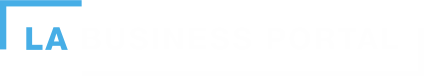
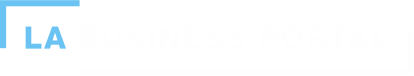
Tweaks related to removing the overlays

Changed region(s): [[0.0, 0.0, 0.2029, 0.6579], [0.058, 0.3421, 0.1739, 0.6316]]

diff --git a/docroot/profiles/labp/themes/la/lasbptheme/css/styles.css b/docroot/profiles/labp/themes/la/lasbptheme/css/styles.css
@@ -1755,7 +1755,7 @@ tr.selected td {
 /* line 8, ../sass/components/_header.scss */
 #header {
   color: white;
-  background: rgba(0, 0, 0, 0.2);
+  background: rgba(0, 0, 0, 0.25);
   padding: 0;
   height: 47px;
   position: fixed;
@@ -2506,7 +2506,7 @@ h3 {
 }
 
 @media all and (min-width: 960px) {
-  /* line 165, ../sass/components/hero/_hero.scss */
+  /* line 164, ../sass/components/hero/_hero.scss */
   .hero__bottom_align {
     border: 0px solid red;
     padding: 30px;
@@ -2515,7 +2515,7 @@ h3 {
   }
 }
 
-/* line 174, ../sass/components/hero/_hero.scss */
+/* line 173, ../sass/components/hero/_hero.scss */
 .hero__bottom_align--bn {
   border: 0px solid red;
   padding: 30px 30px 50px 0;
@@ -2523,12 +2523,12 @@ h3 {
   bottom: 0;
 }
 
-/* line 182, ../sass/components/hero/_hero.scss */
+/* line 181, ../sass/components/hero/_hero.scss */
 .hero__bottom_align_detail {
   border: 0px solid red;
 }
 @media all and (min-width: 960px) {
-  /* line 182, ../sass/components/hero/_hero.scss */
+  /* line 181, ../sass/components/hero/_hero.scss */
   .hero__bottom_align_detail {
     border: 0px solid red;
     padding: 30px 30px 20px 30px;
@@ -2537,23 +2537,23 @@ h3 {
   }
 }
 
-/* line 193, ../sass/components/hero/_hero.scss */
+/* line 192, ../sass/components/hero/_hero.scss */
 .hero__overlay_partial {
-  background-color: rgba(0, 0, 0, 0.3);
+  background-color: transparent;
   height: 250px;
   width: 100%;
   position: absolute;
   top: 0;
 }
 @media all and (min-width: 960px) {
-  /* line 193, ../sass/components/hero/_hero.scss */
+  /* line 192, ../sass/components/hero/_hero.scss */
   .hero__overlay_partial {
     height: 550px;
     width: 50%;
   }
 }
 
-/* line 205, ../sass/components/hero/_hero.scss */
+/* line 204, ../sass/components/hero/_hero.scss */
 .hero__overlay_partial_photo {
   width: 100%;
   height: 250px;
@@ -2564,13 +2564,13 @@ h3 {
   border: 0px solid red;
 }
 @media all and (min-width: 720px) {
-  /* line 205, ../sass/components/hero/_hero.scss */
+  /* line 204, ../sass/components/hero/_hero.scss */
   .hero__overlay_partial_photo {
     background-size: 100% auto;
   }
 }
 @media all and (min-width: 960px) {
-  /* line 205, ../sass/components/hero/_hero.scss */
+  /* line 204, ../sass/components/hero/_hero.scss */
   .hero__overlay_partial_photo {
     position: absolute;
     top: 0;
@@ -2580,7 +2580,7 @@ h3 {
   }
 }
 
-/* line 231, ../sass/components/hero/_hero.scss */
+/* line 230, ../sass/components/hero/_hero.scss */
 .hero__overlay_partial_color {
   border: 0px solid red;
   background-color: #6bc3f3;
@@ -2589,7 +2589,7 @@ h3 {
   position: relative;
 }
 @media all and (min-width: 960px) {
-  /* line 231, ../sass/components/hero/_hero.scss */
+  /* line 230, ../sass/components/hero/_hero.scss */
   .hero__overlay_partial_color {
     position: absolute;
     top: 0;
@@ -2598,7 +2598,7 @@ h3 {
   }
 }
 
-/* line 250, ../sass/components/hero/_hero.scss */
+/* line 249, ../sass/components/hero/_hero.scss */
 .hero__copy_block {
   position: absolute;
   bottom: 30px;
@@ -2606,7 +2606,7 @@ h3 {
   border: 0px solid red;
 }
 
-/* line 259, ../sass/components/hero/_hero.scss */
+/* line 258, ../sass/components/hero/_hero.scss */
 .hero__headline {
   font-family: Merriweather, serif;
   border: 0px solid red;
@@ -2617,14 +2617,14 @@ h3 {
   margin: 0 25px 20px 0;
 }
 @media all and (min-width: 960px) {
-  /* line 259, ../sass/components/hero/_hero.scss */
+  /* line 258, ../sass/components/hero/_hero.scss */
   .hero__headline {
     font-size: 4em;
     margin: 0 0 25px 0;
   }
 }
 
-/* line 284, ../sass/components/hero/_hero.scss */
+/* line 283, ../sass/components/hero/_hero.scss */
 .hero__business__name {
   font-weight: 700;
   color: white;
@@ -2633,13 +2633,13 @@ h3 {
   margin: 55px 0 3px 0;
 }
 @media all and (min-width: 960px) {
-  /* line 284, ../sass/components/hero/_hero.scss */
+  /* line 283, ../sass/components/hero/_hero.scss */
   .hero__business__name {
     margin: 85px 0 3px 0;
   }
 }
 
-/* line 295, ../sass/components/hero/_hero.scss */
+/* line 294, ../sass/components/hero/_hero.scss */
 .hero__business__description {
   color: white;
   width: 80%;
@@ -2647,7 +2647,7 @@ h3 {
   margin: 0;
 }
 
-/* line 305, ../sass/components/hero/_hero.scss */
+/* line 304, ../sass/components/hero/_hero.scss */
 .hero__headline--subsection_mobile {
   color: white;
   font-family: Merriweather, serif;
@@ -2656,13 +2656,13 @@ h3 {
   border: 0px solid red;
 }
 @media all and (min-width: 960px) {
-  /* line 305, ../sass/components/hero/_hero.scss */
+  /* line 304, ../sass/components/hero/_hero.scss */
   .hero__headline--subsection_mobile {
     display: none;
   }
 }
 
-/* line 321, ../sass/components/hero/_hero.scss */
+/* line 320, ../sass/components/hero/_hero.scss */
 .hero__headline--subsection_mobile_color {
   color: white;
   font-family: Merriweather, serif;
@@ -2673,18 +2673,18 @@ h3 {
   color: #0F2940;
 }
 @media all and (min-width: 960px) {
-  /* line 321, ../sass/components/hero/_hero.scss */
+  /* line 320, ../sass/components/hero/_hero.scss */
   .hero__headline--subsection_mobile_color {
     display: none;
   }
 }
 
-/* line 339, ../sass/components/hero/_hero.scss */
+/* line 338, ../sass/components/hero/_hero.scss */
 .hero__headline--subsection {
   display: none;
 }
 @media all and (min-width: 960px) {
-  /* line 339, ../sass/components/hero/_hero.scss */
+  /* line 338, ../sass/components/hero/_hero.scss */
   .hero__headline--subsection {
     font-size: 2.571em;
     margin: 0 0 25px 0;
@@ -2695,7 +2695,7 @@ h3 {
   }
 }
 
-/* line 353, ../sass/components/hero/_hero.scss */
+/* line 352, ../sass/components/hero/_hero.scss */
 .hero__description--subsection {
   color: #0F2940;
   font-size: 1.143em;
@@ -2703,26 +2703,26 @@ h3 {
   margin: 30px 0 30px 0;
 }
 @media all and (min-width: 960px) {
-  /* line 353, ../sass/components/hero/_hero.scss */
+  /* line 352, ../sass/components/hero/_hero.scss */
   .hero__description--subsection {
     font-size: 1.429em;
   }
 }
 
-/* line 372, ../sass/components/hero/_hero.scss */
+/* line 371, ../sass/components/hero/_hero.scss */
 .hero__icon--subsection_mobile {
   display: block;
   width: 100px;
   margin: 0 0 5px 0;
 }
 @media all and (min-width: 960px) {
-  /* line 372, ../sass/components/hero/_hero.scss */
+  /* line 371, ../sass/components/hero/_hero.scss */
   .hero__icon--subsection_mobile {
     display: none;
   }
 }
 
-/* line 385, ../sass/components/hero/_hero.scss */
+/* line 384, ../sass/components/hero/_hero.scss */
 .hero__icon_bottom_alignment--subsection {
   position: absolute;
   bottom: 0;
@@ -2730,7 +2730,7 @@ h3 {
   margin: 0 25px 25px 25px;
 }
 
-/* line 392, ../sass/components/hero/_hero.scss */
+/* line 391, ../sass/components/hero/_hero.scss */
 .hero__icon_bottom_alignment--subsection_color {
   position: absolute;
   bottom: 0;
@@ -2738,12 +2738,12 @@ h3 {
   margin: 0 25px 25px 25px;
 }
 
-/* line 400, ../sass/components/hero/_hero.scss */
+/* line 399, ../sass/components/hero/_hero.scss */
 .hero__icon--subsection_desktop {
   display: none;
 }
 @media all and (min-width: 960px) {
-  /* line 400, ../sass/components/hero/_hero.scss */
+  /* line 399, ../sass/components/hero/_hero.scss */
   .hero__icon--subsection_desktop {
     display: block;
     width: 100px;
@@ -2752,7 +2752,7 @@ h3 {
   }
 }
 
-/* line 411, ../sass/components/hero/_hero.scss */
+/* line 410, ../sass/components/hero/_hero.scss */
 .hero__button--base {
   -moz-border-radius: 20px;
   -webkit-border-radius: 20px;
@@ -2768,7 +2768,7 @@ h3 {
   *zoom: 1;
 }
 @media all and (min-width: 960px) {
-  /* line 411, ../sass/components/hero/_hero.scss */
+  /* line 410, ../sass/components/hero/_hero.scss */
   .hero__button--base {
     -moz-border-radius: 25px;
     -webkit-border-radius: 25px;
@@ -2779,7 +2779,7 @@ h3 {
   }
 }
 
-/* line 432, ../sass/components/hero/_hero.scss */
+/* line 431, ../sass/components/hero/_hero.scss */
 .hero__button--base a {
   color: #0F2940;
 }

diff --git a/docroot/profiles/labp/themes/la/lasbptheme/styled_html/resources_departments.html b/docroot/profiles/labp/themes/la/lasbptheme/styled_html/resources_departments.html
@@ -26,7 +26,7 @@
 
 
   <!-- photo -->
-  <div class="hero__overlay_partial_photo" style="background-image:url('../images/hero/hero_departments.jpg');"></div>
+  <div class="hero__overlay_partial_photo" style="background-image:url('../images/hero/with_overlays/hero_bread.jpg');"></div>
 
   <!-- overlay -->
 
@@ -172,7 +172,7 @@ Lorem ipsum dolor sit amet, consectetur adipiscing elit. Aenean congue sit amet 
       <p class="page__content_paragraph">Lorem ipsum dolor sit amet, consectetur adipiscing elit. Quisque congue varius eros ultrices fringilla. Vestibulum sed sem vitae diam vehicula iaculis vel quis sapien. Nullam congue at eros non sagittis. Quisque nec scelerisque neque. Nullam malesuada lorem in orci luctus dignissim. Phasellus vel tortor id turpis dapibus blandit. Aliquam pretium erat vel diam interdum, eu vulputate tortor fringilla. Vestibulum ante ipsum primis in faucibus orci luctus et ultrices posuere cubilia Curae; </p>
 
 
-     
+
 
 
     </div>

diff --git a/docroot/profiles/labp/themes/la/lasbptheme/styled_html/resources_terms_and_definitions.html b/docroot/profiles/labp/themes/la/lasbptheme/styled_html/resources_terms_and_definitions.html
@@ -26,7 +26,7 @@
 
 
   <!-- photo -->
-  <div class="hero__overlay_partial_photo" style="background-image:url('../images/hero/scaled/hero_peppers.jpg');"></div>
+  <div class="hero__overlay_partial_photo" style="background-image:url('../images/hero/with_overlays/hero_peppers.jpg');"></div>
 
   <!-- overlay -->
 
@@ -58,7 +58,7 @@ Lorem ipsum dolor sit amet, consectetur adipiscing elit. Aenean congue sit amet 
   </div>
   </div>
     <div class="hero__copy--subsection">
-        
+
       <div class="hero__bottom_align">
         <div class="hero__icon--subsection_desktop"><img src="../images/subsections/icon_hero_terms.png" /></div>
         <p class="hero__headline--subsection">Terms & Definitions</p>

diff --git a/docroot/profiles/labp/themes/la/lasbptheme/sass/components/hero/_hero.scss b/docroot/profiles/labp/themes/la/lasbptheme/sass/components/hero/_hero.scss
@@ -154,7 +154,6 @@
   top:0;
   width: 100%;
   height: 550px;
-
   @include window_size(desktop){
     @include maintain-ratio(1440 550);
     border:0px solid red;
@@ -191,7 +190,7 @@
 
 // subsection
 .hero__overlay_partial{
-  background-color: rgba(0,0,0,.3);
+  background-color: rgba(0,0,0,0);
   height:250px;
   width:100%;
   position: absolute;

diff --git a/docroot/profiles/labp/themes/la/lasbptheme/styled_html/resources_business_centers.html b/docroot/profiles/labp/themes/la/lasbptheme/styled_html/resources_business_centers.html
@@ -29,7 +29,7 @@
 
 
             <!-- photo -->
-            <div class="hero__overlay_partial_photo"  style="background-image:url('../images/hero/hero_centers.jpg');"></div>
+            <div class="hero__overlay_partial_photo"  style="background-image:url('../images/hero/with_overlays/hero_tacks.jpg');"></div>
 
             <!-- overlay -->
 

diff --git a/docroot/profiles/labp/themes/la/lasbptheme/styled_html/resources_blue.html b/docroot/profiles/labp/themes/la/lasbptheme/styled_html/resources_blue.html
@@ -26,7 +26,7 @@
 
 
   <!-- photo -->
-  <div class="hero__overlay_partial_photo" style="background-image:url('../images/hero/with_overlays/hero_cookies.jpg');"></div>
+  <div class="hero__overlay_partial_photo" style="background-image:url('../images/hero/heroes_darker_blue.jpg');"></div>
 
   <!-- overlay -->
 

diff --git a/docroot/profiles/labp/themes/la/lasbptheme/styled_html/resources_landing.html b/docroot/profiles/labp/themes/la/lasbptheme/styled_html/resources_landing.html
@@ -26,7 +26,7 @@
 
 
   <!-- photo -->
-  <div class="hero__overlay_partial_photo" style="background-image:url('../images/hero/scaled/hero_cakes.jpg');"></div>
+  <div class="hero__overlay_partial_photo" style="background-image:url('../images/hero/with_overlays/hero_cakes.jpg');"></div>
 
   <!-- overlay -->
 

diff --git a/docroot/profiles/labp/themes/la/lasbptheme/sass/components/_header.scss b/docroot/profiles/labp/themes/la/lasbptheme/sass/components/_header.scss
@@ -7,7 +7,7 @@
  */
 #header {
   color: $white;
-  background: rgba(0,0,0,.2);
+  background: rgba(0,0,0,.25);
   padding: 0;
   a {
     color: $white;
